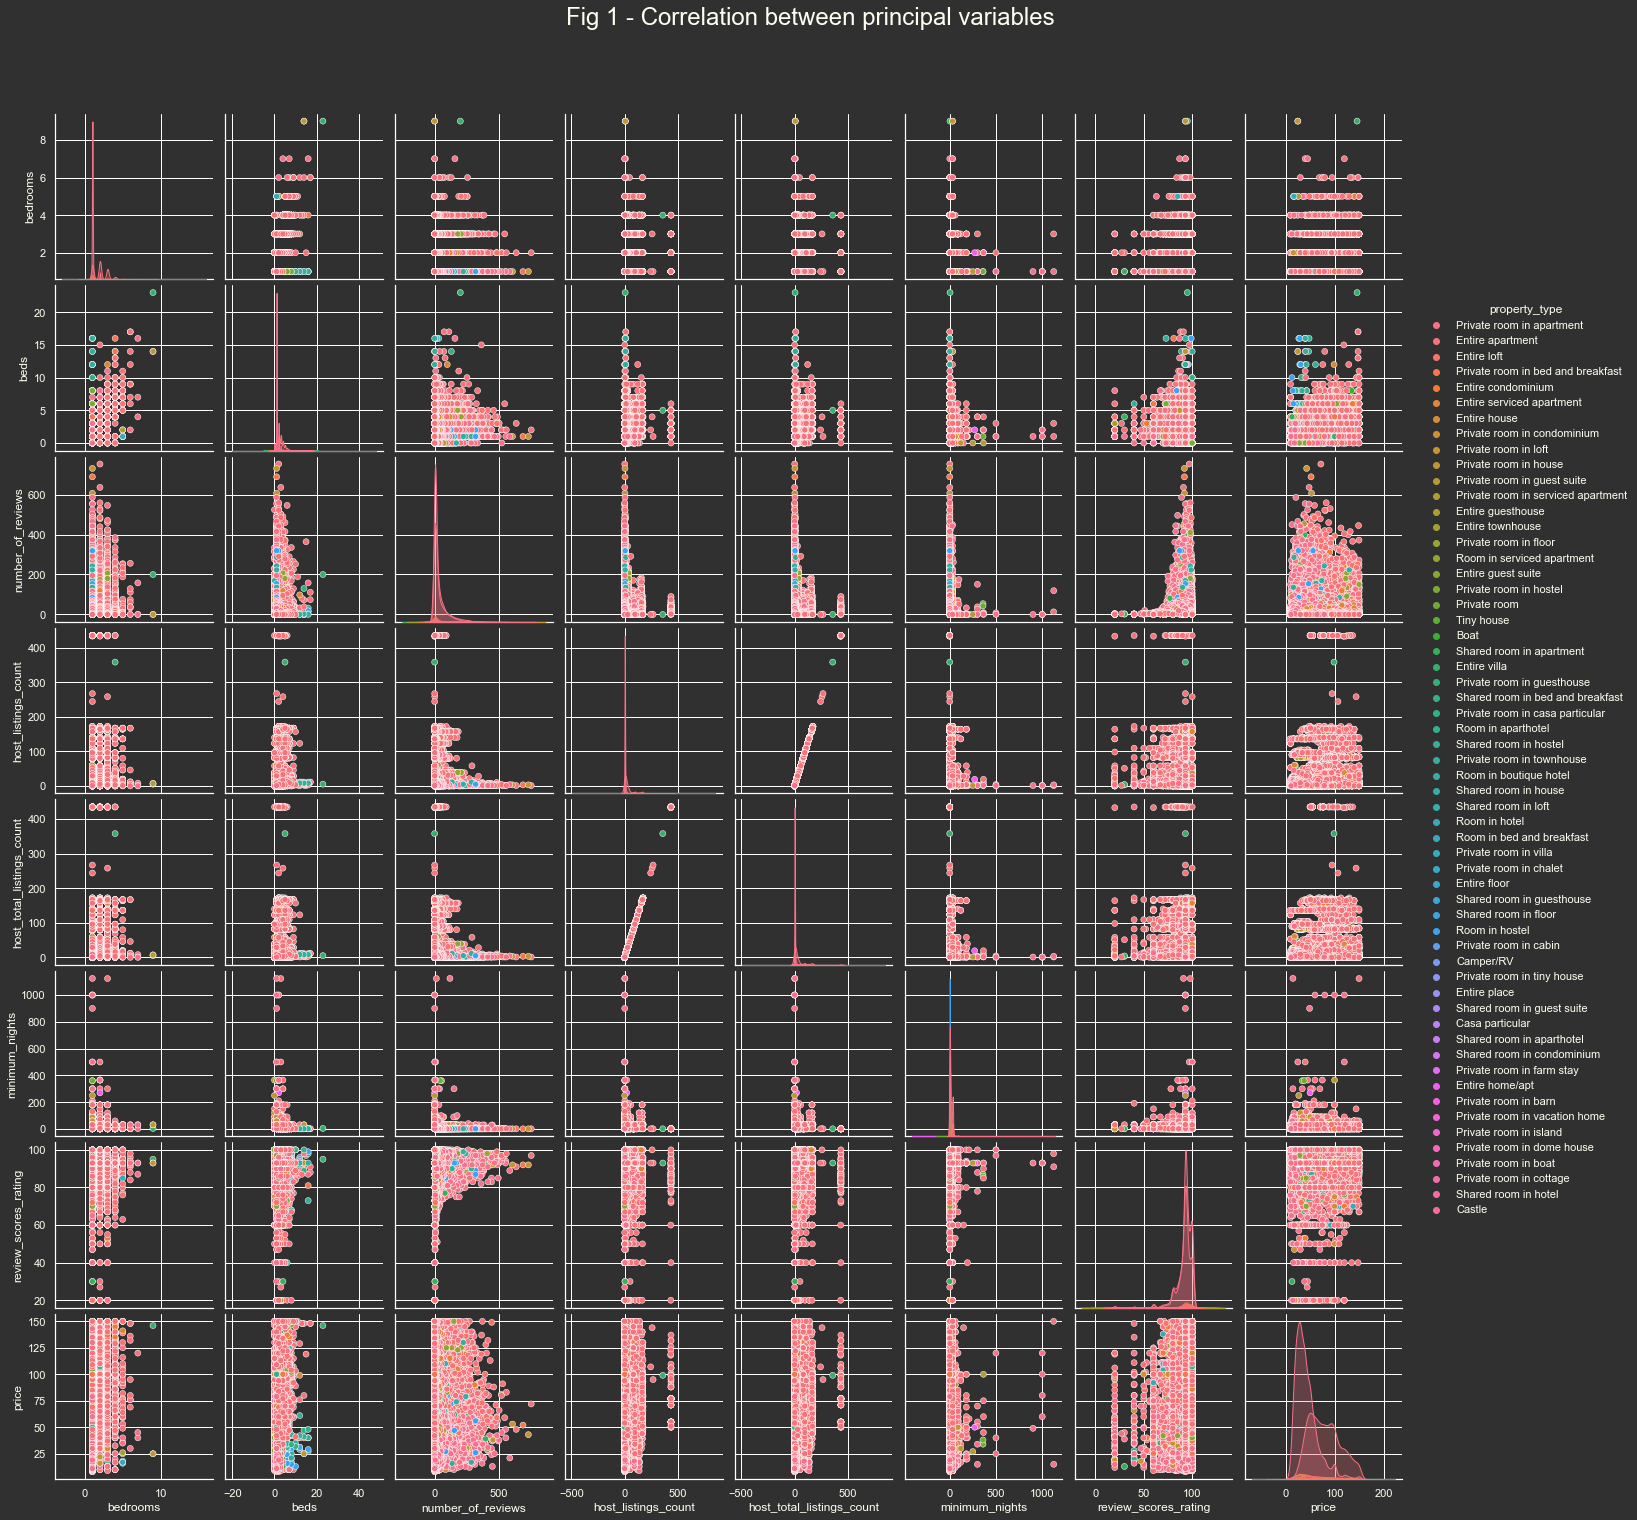
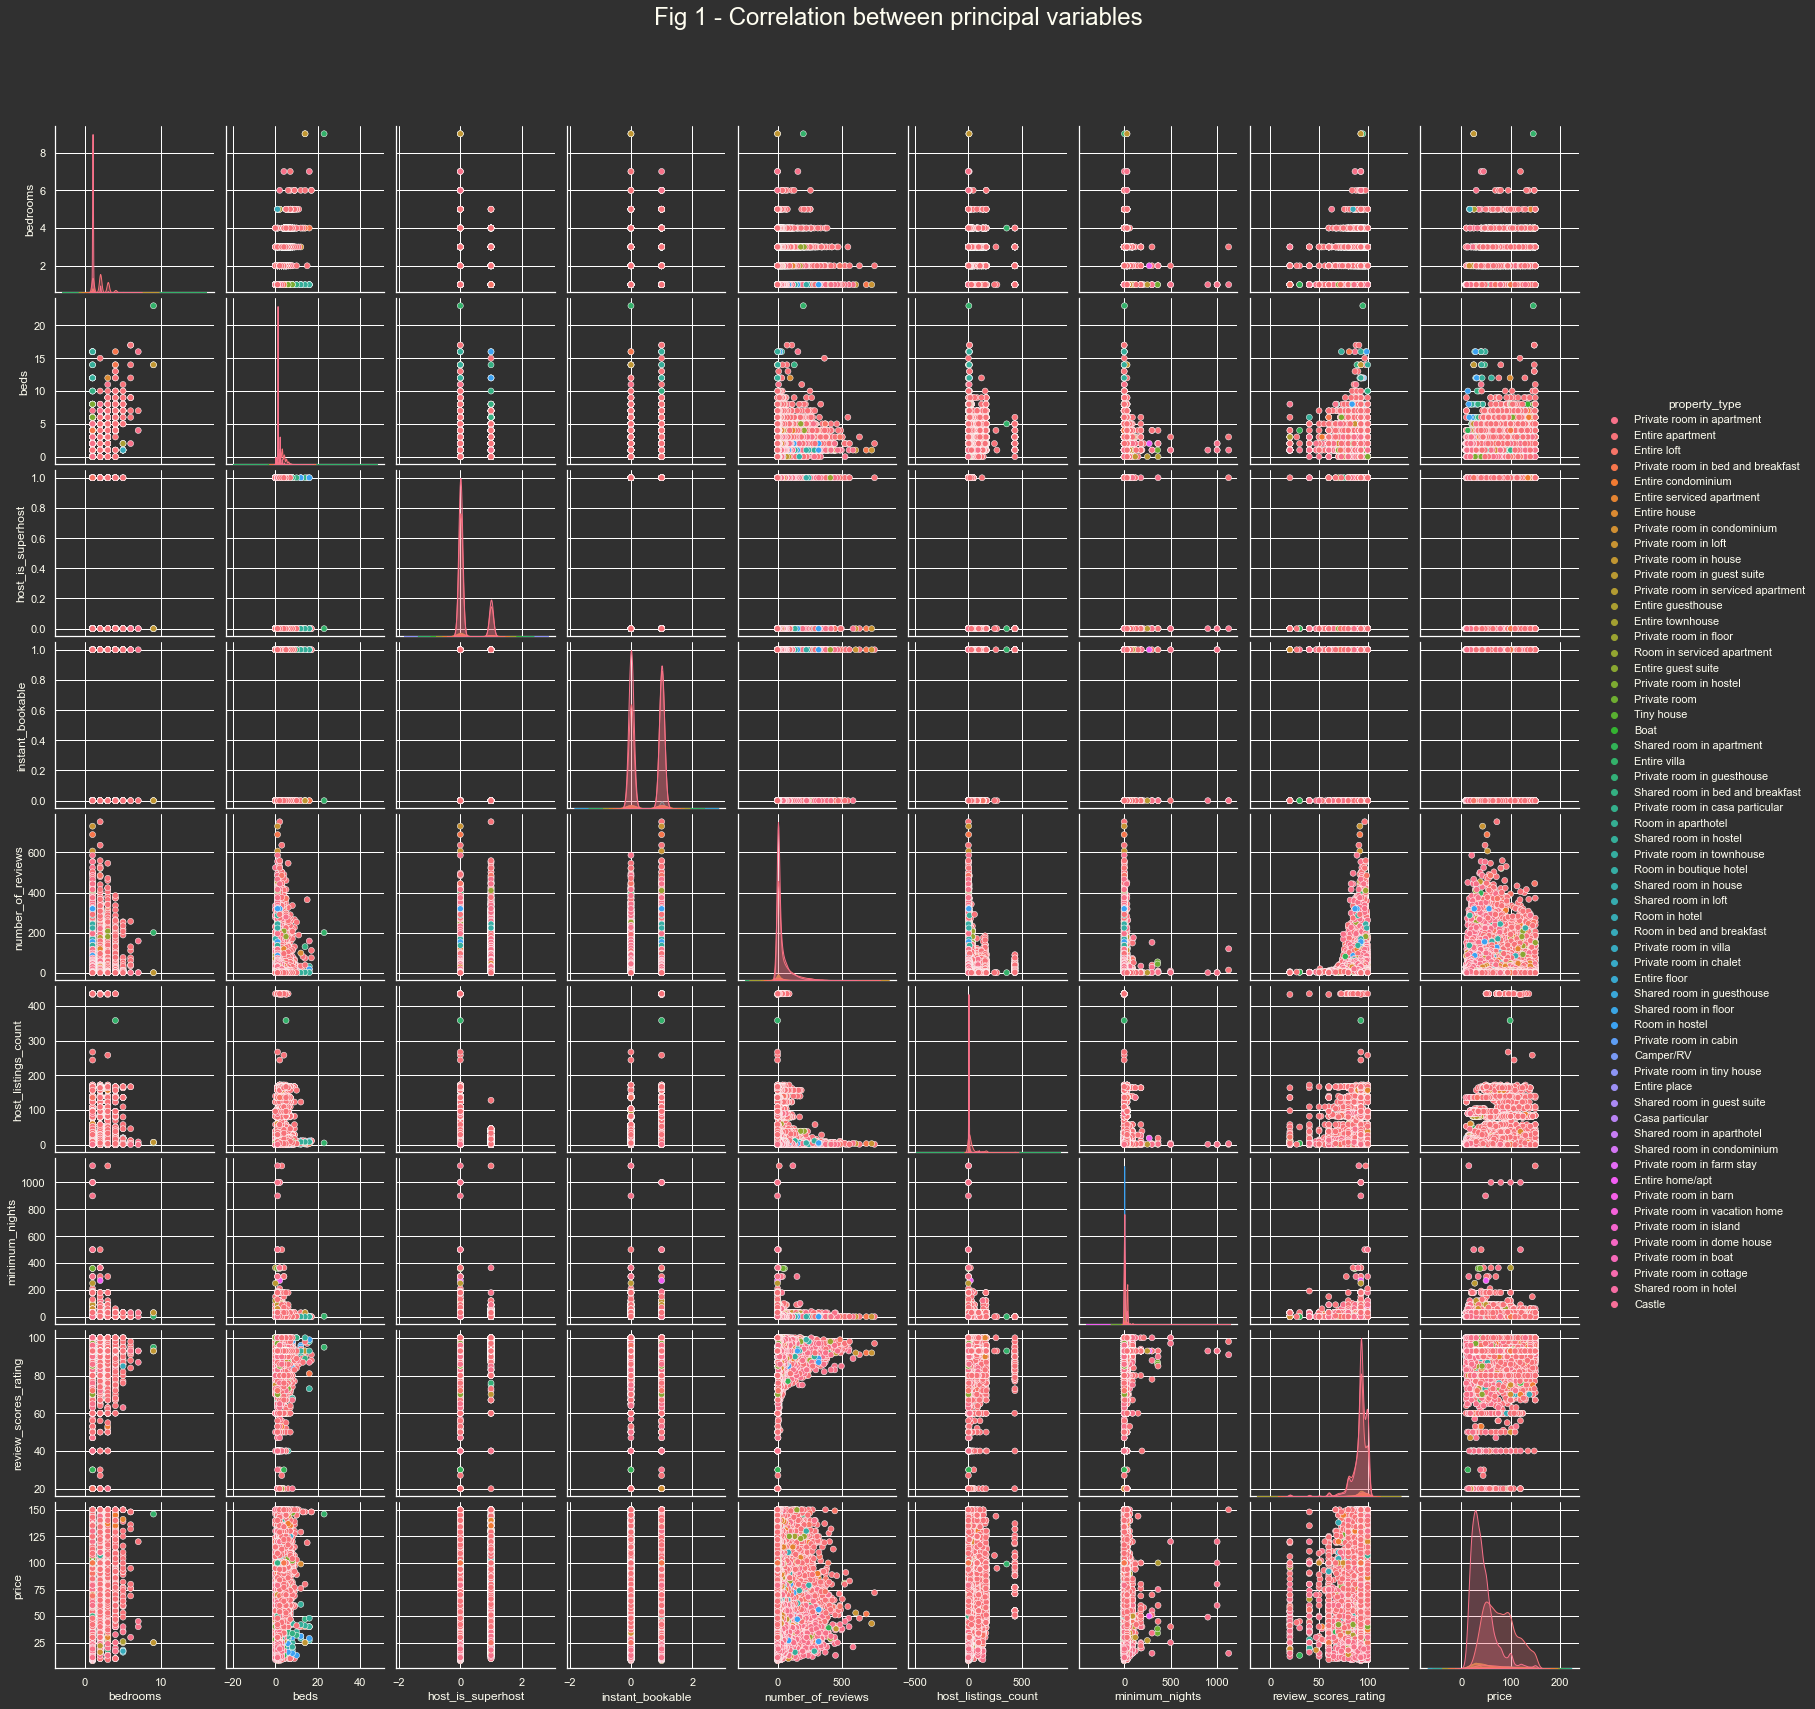
.

Changed region(s): [[0.0, 0.0618, 0.9969, 1.0], [0.3427, 0.0, 0.6542, 0.0309]]

diff --git a/md/airbnb/part3.md b/md/airbnb/part3.md
@@ -53,11 +53,11 @@ airbnb_data = pd.get_dummies(airbnb_data)
 
 ## Random Forest Model
 We are going to do regression model based on Random Forest algorithm. We are going to use this model based on:
+
 - We have several columns/characteristics to be evaluated and this model it's good one to lots of columns regression (independent variables).
 
 ### Independent variable vs dependent variables
-We are going to separate our independent variable (the one we want to predict) from the dependent values. We are going to drop also the values we have found in *part2* that are dependents between each other.
-
+We are going to separate our dependent variable (the one we want to predict) from the independent values.
 
 ```python
 X = airbnb_data.drop(['price'],axis=1).astype('float').values
@@ -201,7 +201,38 @@ result_df = pd.melt(result_df,id_vars='id', value_vars=['Test Data','Predicted D
 
 Well $R^2=0,52$ It's not a good result, but it's not the worst. Comparing predicted and testing data it seems that it has good behavior around the mean price of the dataset and it's not so good with the prices that are down in the table and up in the table.
 
-### Save the model
+## Conclusions
+
+We have found when using filter options, that there are some features that impacts over the price:
+
+*Validation and Comparison*
+```
+'host_is_superhost'(1)
+'host_identity_verified'
+'number_of_reviews'
+'host_listings_count'
+```
+*Basic Requirements*
+```
+'instant_bookable',
+'bedrooms' 
+'beds'
+'minimum_nights'
+'hot water'
+```
+*Baby Requirements*
+'high chair'
+'pack play/travel crib'
+*Others*
+```
+'host greets you'
+```
+The other are related to property 'type' but they are not top 10 relevant as we suppose initially. In fact the price is much sensible to the reputation and requirements than which type of property is the publication. So, laws of supply and demand seems to be the 'clue' for price determination.
+
+
+*$(1)$ The "superhost" designation on Airbnb is a sign that an Airbnb host has gotten consistently good reviews over at least a year of hosting. Airbnb checks the status of hosts four times a year to ensure that a superhost badge is still relevant for each host.*
+
+## Save the model
 
 
 ```python

diff --git a/md/airbnb/part2.md b/md/airbnb/part2.md
@@ -31,12 +31,12 @@ We will start trying to find correlations/aggrupations in a visual way, for that
 ```python
 sns.pairplot(airbnb_data[[
 "bedrooms",
-"room_type",
 "beds",
+"host_is_superhost",
+"instant_bookable",
 "property_type",
 "number_of_reviews",
 "host_listings_count",
-"host_total_listings_count",
 "minimum_nights",
 "review_scores_rating",
 "price"
@@ -59,13 +59,15 @@ We have 2 types of graphics:
 
 All of them are colored by property type, as it's clear that is an important aggregation characteristic which I will try to highlight in any graphic so we could analyze all data with this dimension disaggregated.
 
-Some conclusions:
+Some conclusions, from visual interpretation:
 
-- 'host_total_listing_count' and 'host_listing_count' are dependent so when going to construct our model we will have to discard one of them, and the dependency that we could have with the price will be shared with these 2 variables.
+- You will have best reviews if you are superhost $^(1)$
 - The properties which have more reviews usually have also best scores.
 - Score rating doesn't seem clear that impacts over the price, as we have lots of different prices distributed the same way in all the score range.
 - We have several 1 bedroom with 1 bed publication.
 - It seems in general that people review and rate similar way...
+
+*$(1)$ The "superhost" designation on Airbnb is a sign that an Airbnb host has gotten consistently good reviews over at least a year of hosting. Airbnb checks the status of hosts four times a year to ensure that a superhost badge is still relevant for each host.*
 
 ### Review Scores Rating
 
